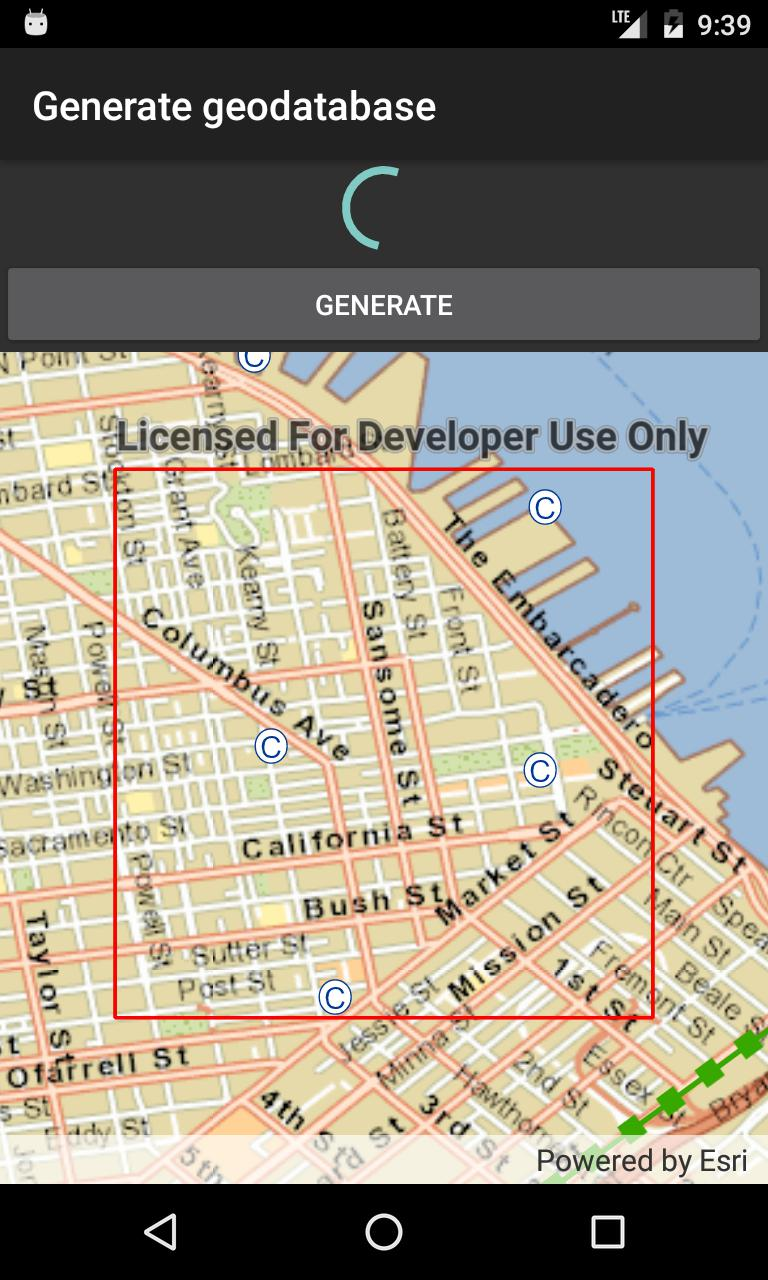
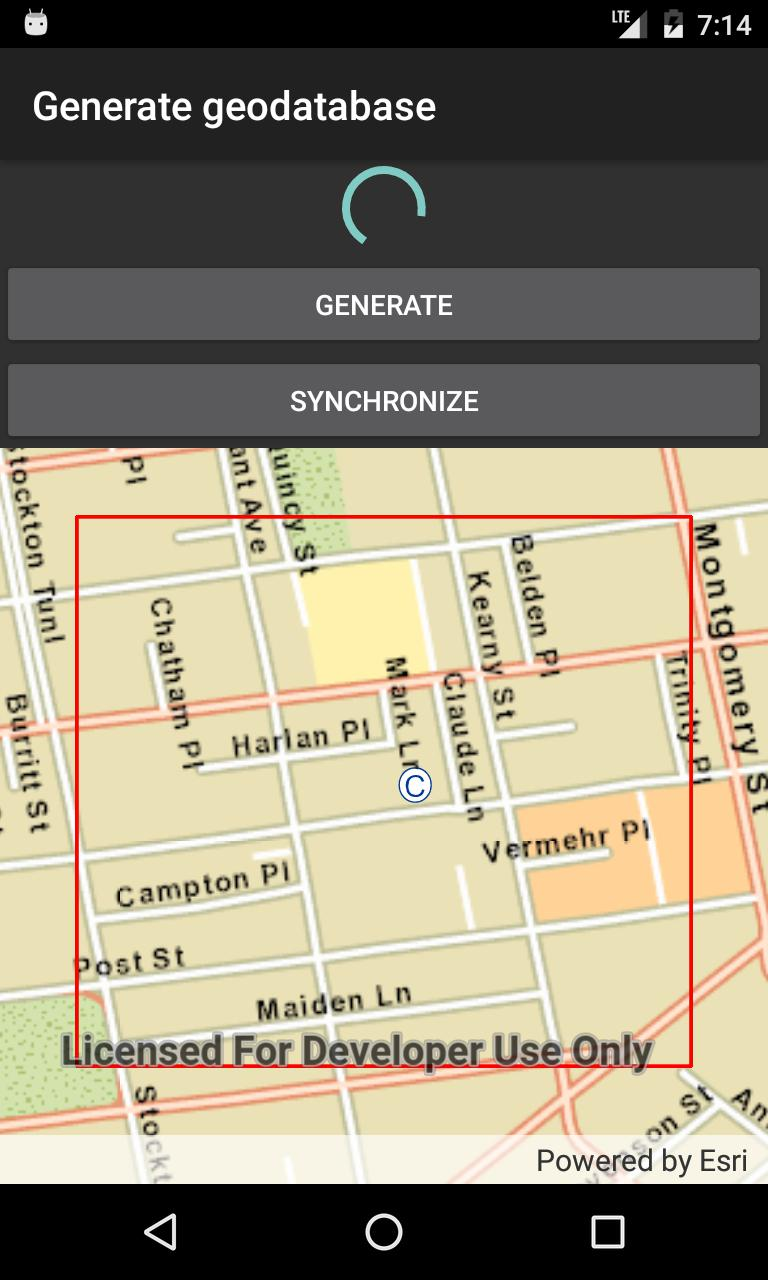
Updates to iOS and Android projects
Both now build and run as desired.

diff --git a/src/iOS/Xamarin.iOS/Samples/Data/EditAndSyncFeatures/EditAndSyncFeatures.cs b/src/iOS/Xamarin.iOS/Samples/Data/EditAndSyncFeatures/EditAndSyncFeatures.cs
@@ -25,7 +25,7 @@ using ArcGISRuntimeXamarin.Managers;
 using Foundation;
 using UIKit;
 
-namespace ArcGISRuntimeXamarin.Samples.GenerateGeodatabase
+namespace ArcGISRuntimeXamarin.Samples.EditAndSyncFeatures
 {
     [Register("EditAndSyncFeatures")]
     public class EditAndSyncFeatures : UIViewController
@@ -82,6 +82,7 @@ namespace ArcGISRuntimeXamarin.Samples.GenerateGeodatabase
         public override void ViewDidLayoutSubviews()
         {
             base.ViewDidLayoutSubviews();
+
             // Place the MapView
             myMapView.Frame = new CoreGraphics.CGRect(0, 0, View.Bounds.Width, View.Bounds.Height);
 
@@ -113,11 +114,8 @@ namespace ArcGISRuntimeXamarin.Samples.GenerateGeodatabase
             mySyncButton.TouchUpInside += SyncButton_Click;
             mySyncButton.Enabled = false;
 
-            // Place the progress bar
-            myProgressBar.Frame = new CoreGraphics.CGRect(0, View.Bounds.Height - 10, View.Bounds.Width, 10);
-
             // Add the views
-            View.AddSubviews(myMapView, myProgressBar, myGenerateButton);
+            View.AddSubviews(myMapView, myProgressBar, mySyncButton, myGenerateButton);
         }
 
         private async void Initialize()
@@ -149,6 +147,9 @@ namespace ArcGISRuntimeXamarin.Samples.GenerateGeodatabase
 
             // Set up an event handler for when the viewpoint (extent) changes
             myMapView.ViewpointChanged += MapViewExtentChanged;
+
+            // Set up an event handler for 'tapped' events
+            myMapView.GeoViewTapped += GeoViewTapped;
 
             // Update the local data path for the geodatabase file
             _gdbPath = GetGdbPath();
@@ -267,7 +268,7 @@ namespace ArcGISRuntimeXamarin.Samples.GenerateGeodatabase
 
             // Create an envelope that is a bit smaller than the extent
             EnvelopeBuilder envelopeBldr = new EnvelopeBuilder(extent);
-            envelopeBldr.Expand(0.80);
+            envelopeBldr.Expand(0.70);
 
             // Get the (only) graphics overlay in the map view
             var extentOverlay = myMapView.GraphicsOverlays.FirstOrDefault();
@@ -463,13 +464,13 @@ namespace ArcGISRuntimeXamarin.Samples.GenerateGeodatabase
             string folder = DataManager.GetDataFolder();
 
             // Get the full path
-            string filepath = Path.Combine(folder, "SampleData", "GenerateGeodatabase", filename);
+            string filepath = Path.Combine(folder, "SampleData", "EditAndSyncFeatures", filename);
 
             // Check if the file exists
             if (!File.Exists(filepath))
             {
                 // Download the map package file
-                await DataManager.GetData("3f1bbf0ec70b409a975f5c91f363fe7d", "GenerateGeodatabase");
+                await DataManager.GetData("3f1bbf0ec70b409a975f5c91f363fe7d", "EditAndSyncFeatures");
             }
             return filepath;
         }
@@ -526,7 +527,7 @@ namespace ArcGISRuntimeXamarin.Samples.GenerateGeodatabase
             InvokeOnMainThread(() =>
             {
                 // Update the progress bar value
-                myProgressBar.Progress = (float)progress;
+                myProgressBar.Progress = progress / 100.0f;
             });
         }
 

diff --git a/src/Android/Xamarin.Android/Samples/Data/EditAndSyncFeatures/EditAndSyncFeatures.cs b/src/Android/Xamarin.Android/Samples/Data/EditAndSyncFeatures/EditAndSyncFeatures.cs
@@ -137,6 +137,9 @@ namespace ArcGISRuntimeXamarin.Samples.EditAndSyncFeatures
             // Set up an event handler for when the viewpoint (extent) changes
             myMapView.ViewpointChanged += MapViewExtentChanged;
 
+            // Set up event handler for mapview taps
+            myMapView.GeoViewTapped += GeoViewTapped;
+
             // Update the local data path for the geodatabase file
             _gdbPath = GetGdbPath();
 
@@ -450,13 +453,13 @@ namespace ArcGISRuntimeXamarin.Samples.EditAndSyncFeatures
             string folder = DataManager.GetDataFolder();
 
             // Get the full path
-            string filepath = Path.Combine(folder, "SampleData", "GenerateGeodatabase", filename);
+            string filepath = Path.Combine(folder, "SampleData", "EditAndSyncFeatures", filename);
 
             // Check if the file exists
             if (!File.Exists(filepath))
             {
                 // Download the map package file
-                await DataManager.GetData("3f1bbf0ec70b409a975f5c91f363fe7d", "GenerateGeodatabase");
+                await DataManager.GetData("3f1bbf0ec70b409a975f5c91f363fe7d", "EditAndSyncFeatures");
             }
             return filepath;
         }
@@ -541,11 +544,14 @@ namespace ArcGISRuntimeXamarin.Samples.EditAndSyncFeatures
                 {
                     // Update the progress bar's value
                     UpdateProgressBar(0);
+
+                    // Hide the progress bar
+                    myProgressBar.Visibility = Android.Views.ViewStates.Gone;
                 }
                 else
                 {
-                    // Update the progress bar's value
-                    UpdateProgressBar(job.Progress);
+                    // Show the progress bar
+                    myProgressBar.Visibility = Android.Views.ViewStates.Visible;
                 }
 
                 // Do the remainder of the job status changed work
